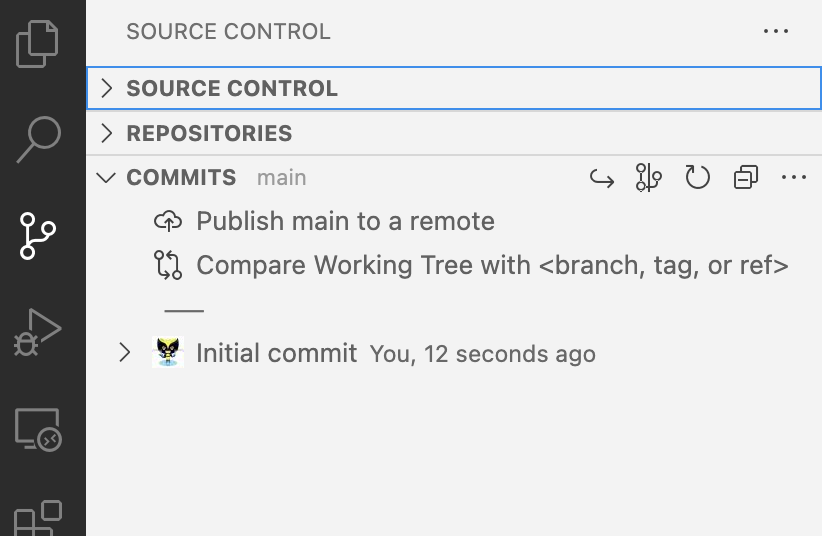
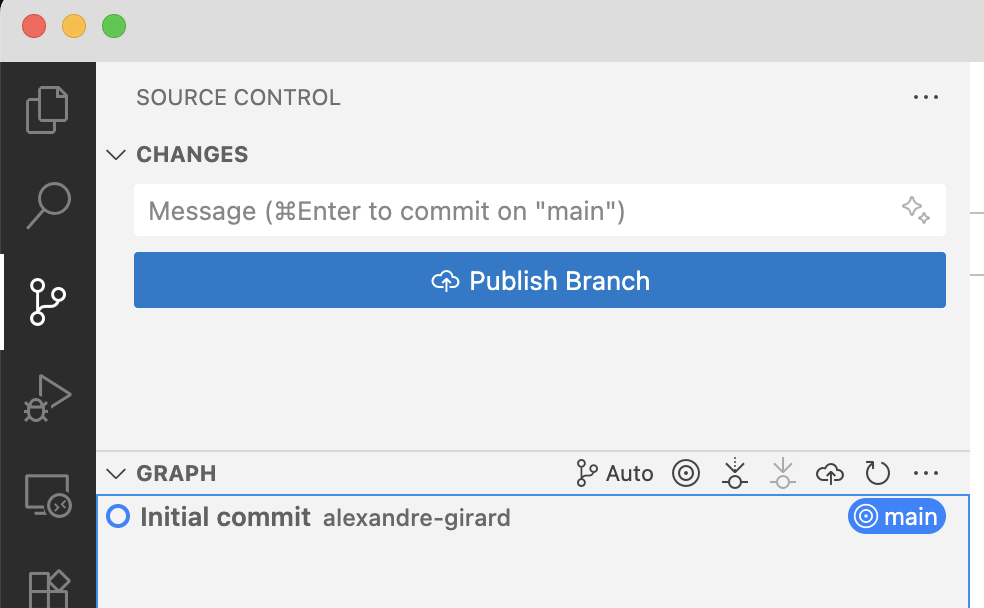
update: enhance Git configuration instructions and clarify commit message best practices in guide-git.md

diff --git a/slides/guide-git.md b/slides/guide-git.md
@@ -115,7 +115,11 @@ git config --global core.editor "code --wait"
 
 # **Git** - Vérification de la configuration
 
-Pour vérifier la configuration actuelle, utiliser la commande `git config --list`
+Pour vérifier la configuration actuelle, utiliser la commande :
+
+```bash
+git config --global --list
+```
 
 ---
 
@@ -154,6 +158,12 @@ ls -a
 . .. .git
 ```
 
+Il n'est pas nécessaire de modifier ce répertoire, **git** s'en occupe automatiquement. 
+
+Nous n'aurions pas à le modifier manuellement.
+
+Ne pas le supprimer, cela supprimerait l'historique du projet.
+
 ---
 # **Git** - initialisation (suite)
 
@@ -163,6 +173,7 @@ Contient les informations nécessaires pour suivre les modifications apportées 
 ls -la .git
 .  ..  HEAD  config  description  hooks  info  objects  refs
 ```
+
 ---
 
 # **Git** - Aide
@@ -196,8 +207,8 @@ nothing to commit (create/copy files and use "git add" to track)
 
 # Exercice - Git - initialisation 
 
-* Initialiser un nouveau **repository** **git** dans un répertoire existant (init + checkout)
-* Copier les fichiers du projet dans le répertoire de travail
+* Initialiser un nouveau **repository** **git** dans un répertoire nommé **html-to-app** (un répertoire local vide sur le disque du poste de travail, pas un répertoire synschronisé avec un service de stockage en ligne cela pourrait poser des problèmes de synchronisation)
+* Copier les fichiers sur lesquels vous avez travaillé pour l'application html dans ce répertoire
 * Vérifier l'état du **repository** avec la commande `git status`
 
 ---
@@ -421,9 +432,19 @@ git log --oneline --graph --decorate
 
 # **Git** - VSCode - git log
 
-Il est possible de visualiser l'historique des commits directement depuis **VSCode** dans l'élément **Commits** de l'explorateur.
+Il est possible de visualiser l'historique des commits directement depuis **VSCode** dans l'élément **Graph** de l'explorateur.
 
 <img src="img/git/git-vscode-commits.png" alt="Git in VSCode Explorer" width="50%"/>
+
+---
+
+# **Git** - Bonnes pratiques - commit
+
+- Faire des commits réguliers et atomiques
+    - Un commit par fonctionnalité
+    - Eviter les commits trop gros (trop de fichiers modifiés, trop de lignes modifiées)
+
+Si vous commitez trop de fichiers en même temps, il est difficile de savoir ce qui a été modifié et pourquoi. Il est préférable de faire plusieurs commits pour des modifications différentes.
 
 ---
 
@@ -433,9 +454,21 @@ Il est possible de visualiser l'historique des commits directement depuis **VSCo
 - Ils doivent expliquer les modifications apportées par le commit
     - Quoi : modifications apportées
     - Pourquoi : pourquoi ces modifications ont été apportées
-- Faire des commits réguliers et atomiques
-    - Un commit par fonctionnalité
-    - Eviter les commits trop gros
+
+Si vous avez des difficultés à écrire un message de commit, c'est peut-être que vous devriez faire plusieurs commits pour des modifications différentes.
+
+Un bon message de commit doit permettre de comprendre les modifications apportées sans avoir à lire le code.
+
+---
+
+# **Git** - Bonnes pratiques - messages de commit (suite)
+
+Les messages de commit permettent de comprendre l'historique du projet et de savoir qui a fait quoi et pourquoi.
+On doit pouvoir comprendre l'historique du projet sans avoir à lire le code.
+
+Des messages de commit clairs et concis permettent de faciliter la collaboration entre les membres d'une équipe et de faciliter la maintenance du code.
+
+Des messages trop génériques ou trop vagues rendent l'historique du projet difficile à comprendre et n'apportent pas d'informations utiles.
 
 ---
 
@@ -445,31 +478,11 @@ Il est possible de visualiser l'historique des commits directement depuis **VSCo
     - "Ajoute la fonctionnalité xxx"
     - "Modifie le style de la page d'accueil"
     - "Supprime le fichier xxx devenu inutile"
-- Limiter la longueur du titre à 50 caractères
-- Ajouter une ligne vide entre le titre et le corps du message
-
----
-
-# **Git** - Bonnes pratiques - messages de commit (suite)
-
-Des emojis peuvent être utilisés pour améliorer la lisibilité des messages de commit :
-
-- 🎉 `:tada:` : Initial commit
-- 🚀 `:rocket:` : Nouvelle fonctionnalité
-- 🐛 `:bug:` : Correction de bug
-- 📝 `:memo:` : Documentation
-- 🎨 `:art:` : Amélioration du style
-- ⚡ `:zap:` : Amélioration des performances
-- 🚧 `:construction:` : Travail en cours
-
-
-Attention à ne pas en abuser, ne pas en utiliser trop de différents, cela peut vite devenir illisible.
-
----
-
-# **Git** - Bonnes pratiques - messages de commit (suite)
-
-L'extension **Gitmoji** pour **VSCode** permet d'ajouter des emojis aux messages de commit.
+- Limiter la longueur du titre à environ 70 caractères
+- Ajouter une ligne vide entre le titre et le corps du message si le corps est nécessaire
+- Utiliser le corps du message pour expliquer les modifications plus en détail si nécessaire
+    - Expliquer le pourquoi des modifications
+    - Expliquer les conséquences des modifications
 
 ---
 
@@ -522,7 +535,7 @@ Les lignes supprimées sont affichées en rouge, les lignes ajoutées en vert.
 Afin de travailler en collaboration avec d'autres personnes ou de sauvegarder son travail sur un serveur distant, il est nécessaire de configurer un dépôt distant. Nous allons utiliser **GitHub** pour cela. Les étapes sont les suivantes :
 
 * Créer un compte sur **GitHub**
-* Créer un nouveau dépôt sur **GitHub**
+* Créer un nouveau dépôt sur **GitHub** nommé **html-to-app**
 * Ajouter le dépôt distant à notre **repository** local
 
 ---
@@ -532,8 +545,12 @@ Afin de travailler en collaboration avec d'autres personnes ou de sauvegarder so
 Pour ajouter un dépôt distant à notre **repository** local, utiliser la commande `git remote add <name> <url>` :
 
 ```bash
-git remote add origin https://github.com/your-login/yout-repo.git
+git remote add origin https://github.com/your-login/your-repo.git
 ```
+
+Remplacer `your-login` par votre nom d'utilisateur **GitHub** et `your-repo` par le nom du dépôt que vous avez créé sur **GitHub**.
+Ces informations sont aussi fournies par **GitHub** lors de la création du dépôt.
+
 ---
 
 # **Git** - remote (suite)
